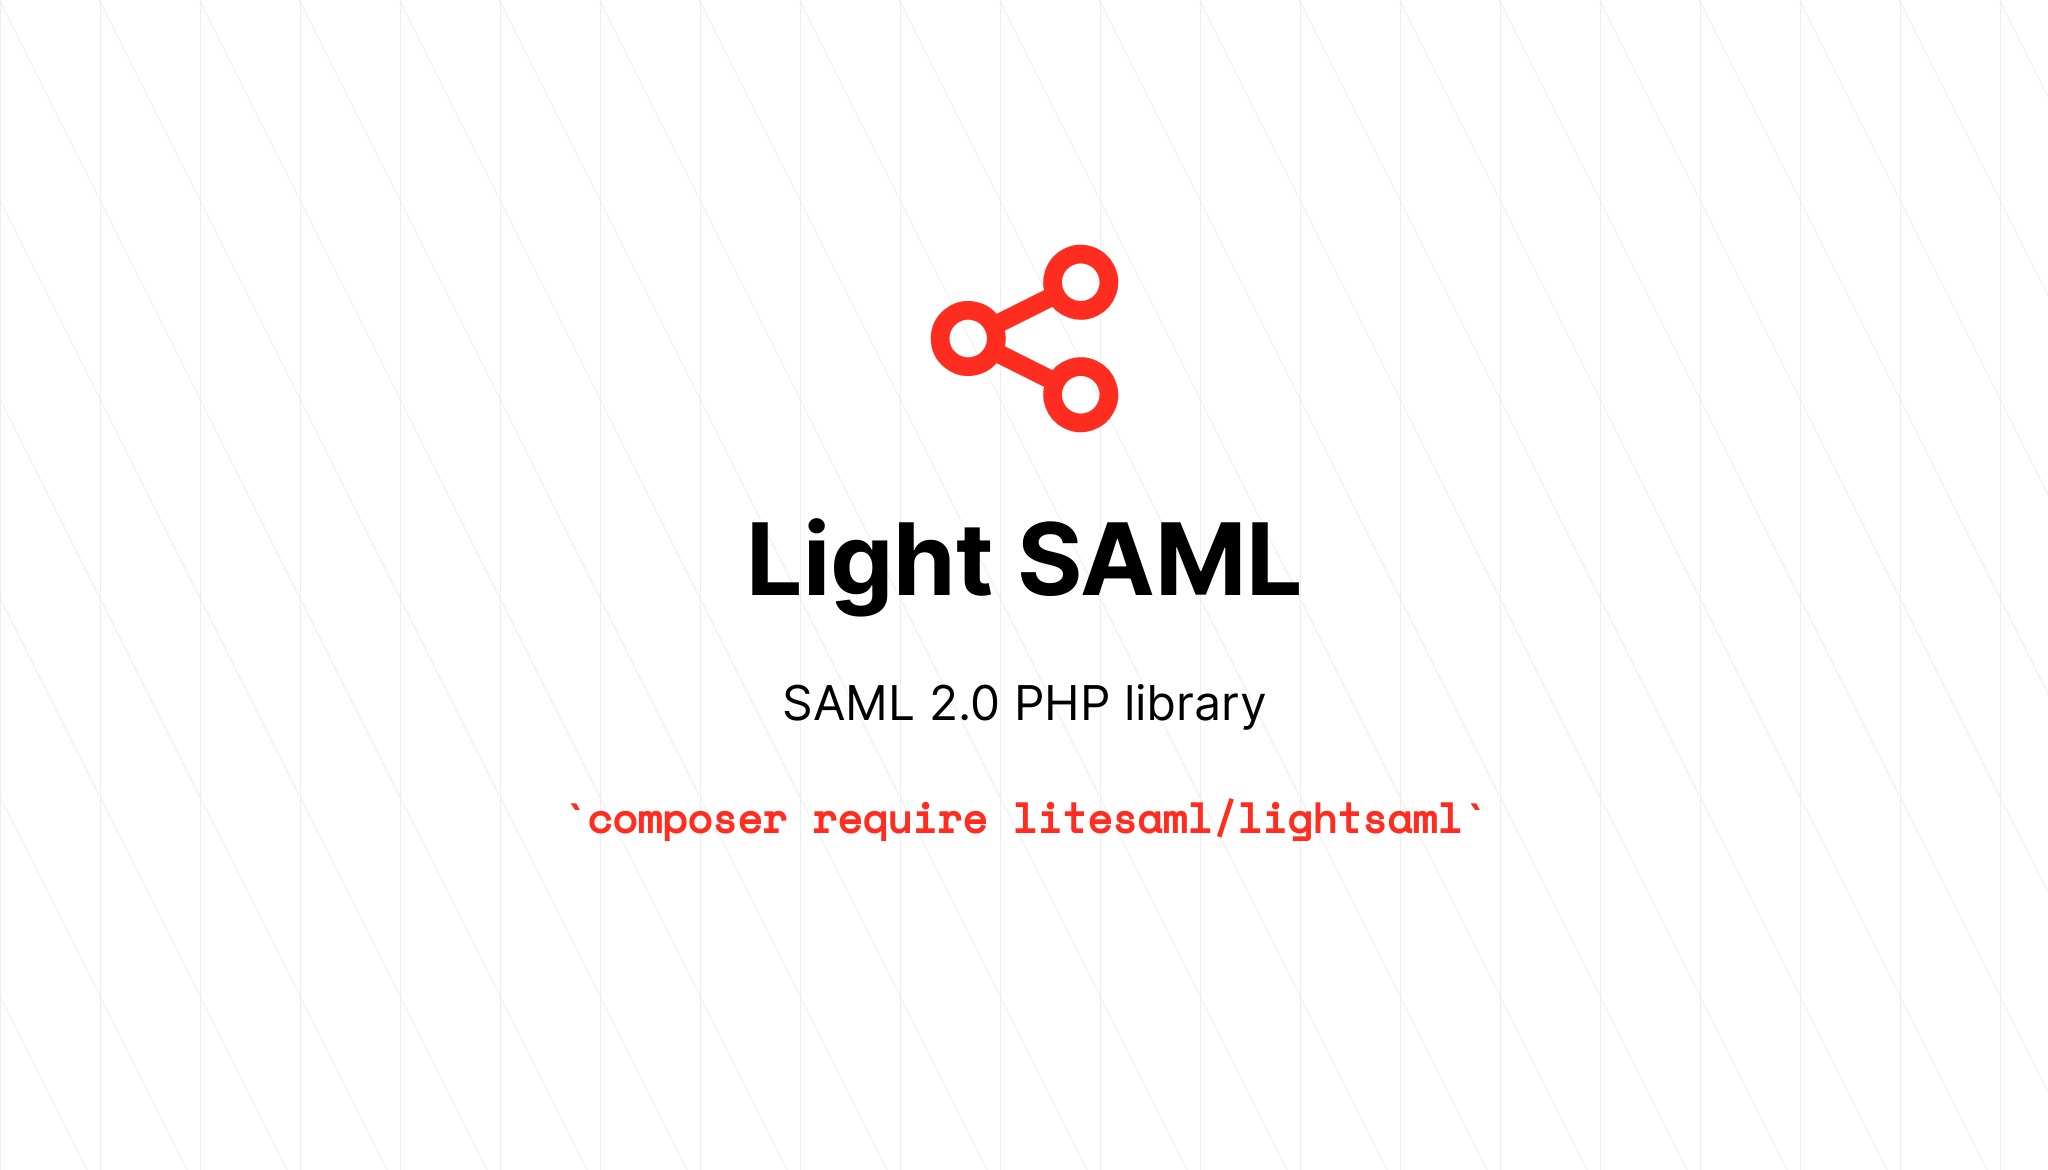
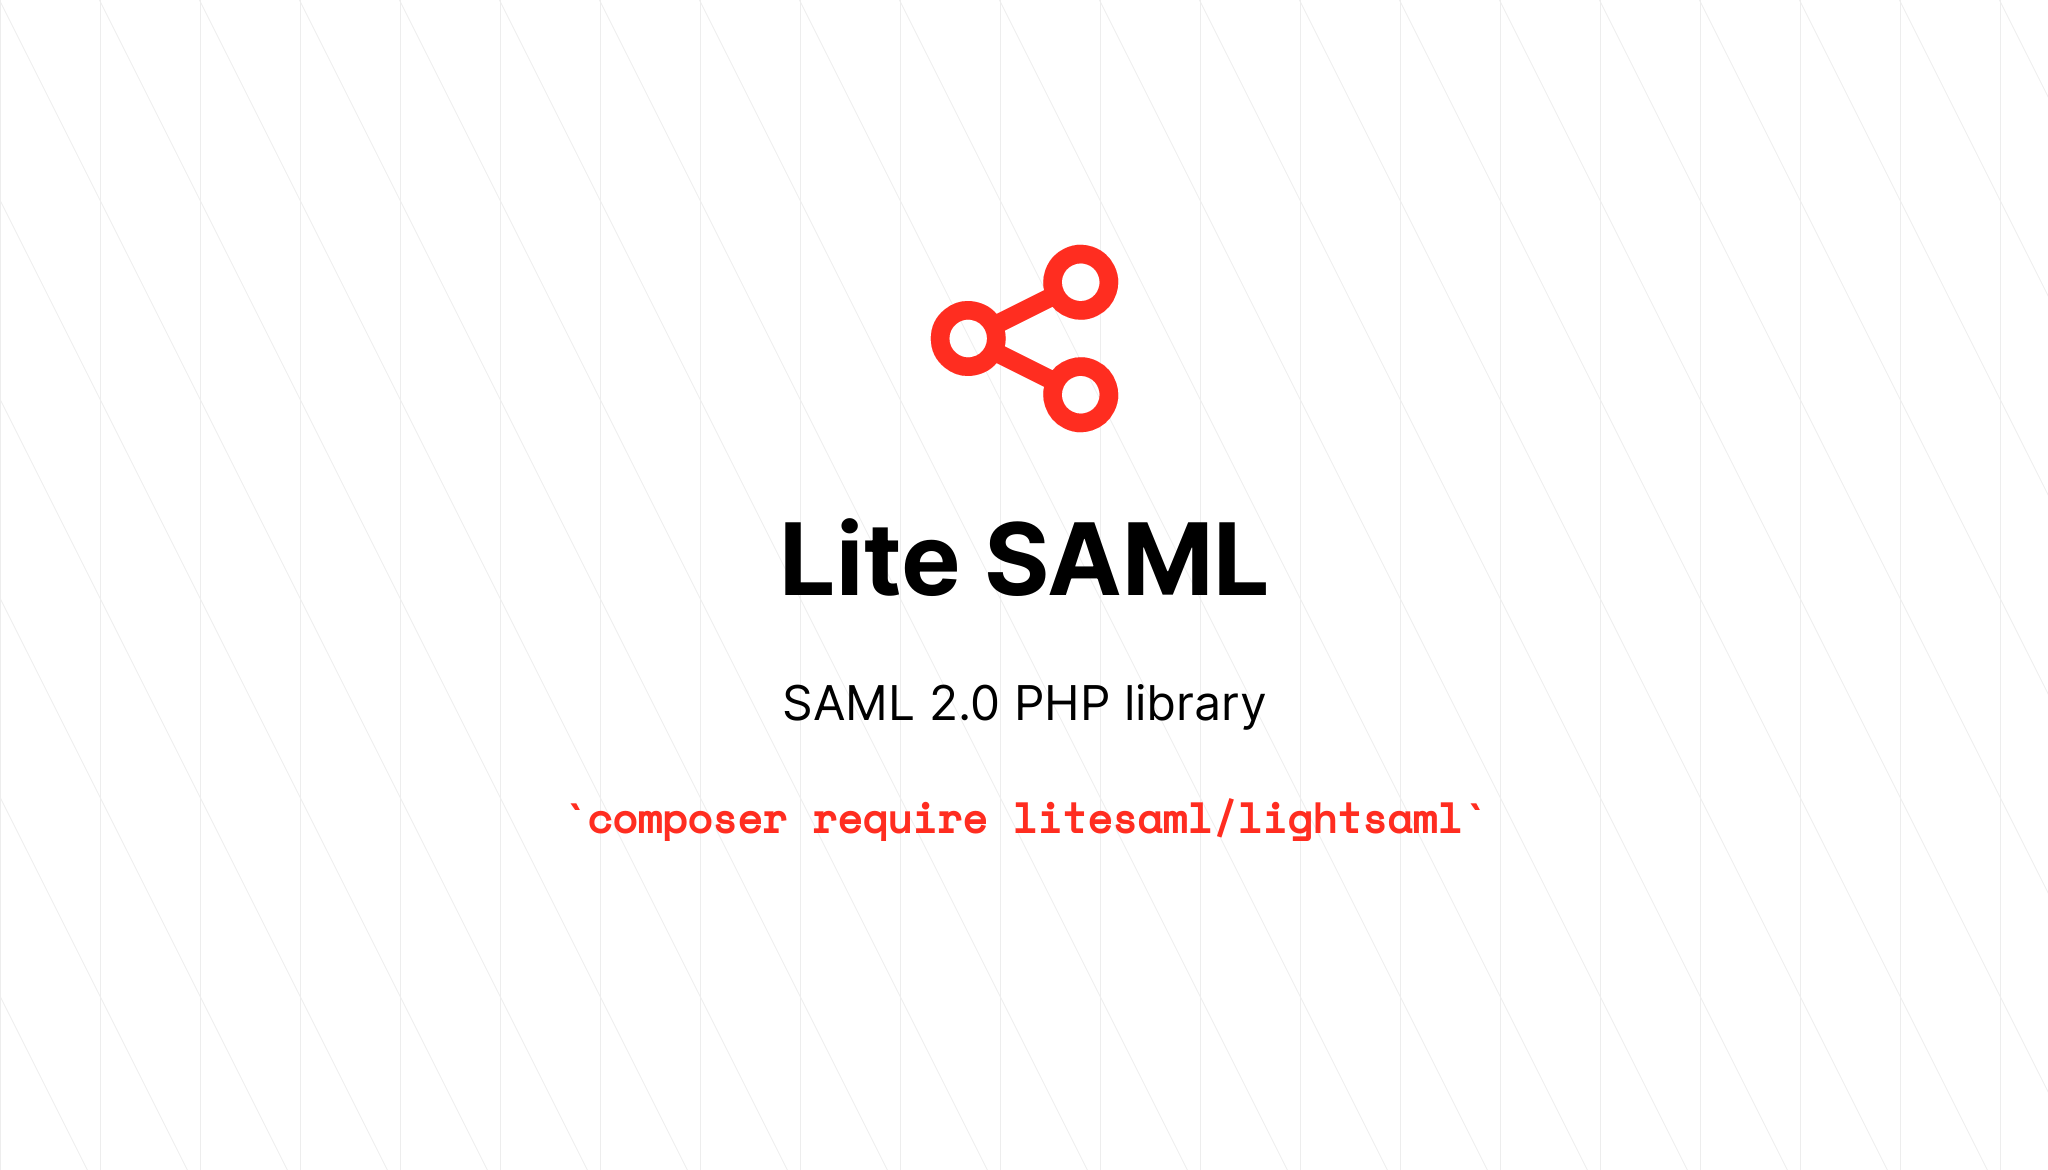
Change package description.

Changed region(s): [[0.3438, 0.4308, 0.6562, 0.5231]]

diff --git a/CHANGELOG.md b/CHANGELOG.md
@@ -2,6 +2,9 @@
 
 All notable changes will be documented in this file.
 
+## [3.0.3] - 2022-05-29
++ Change package description.
+
 ## [3.0.2] - 2022-05-27
 + Fix composer documentation settings.
 
